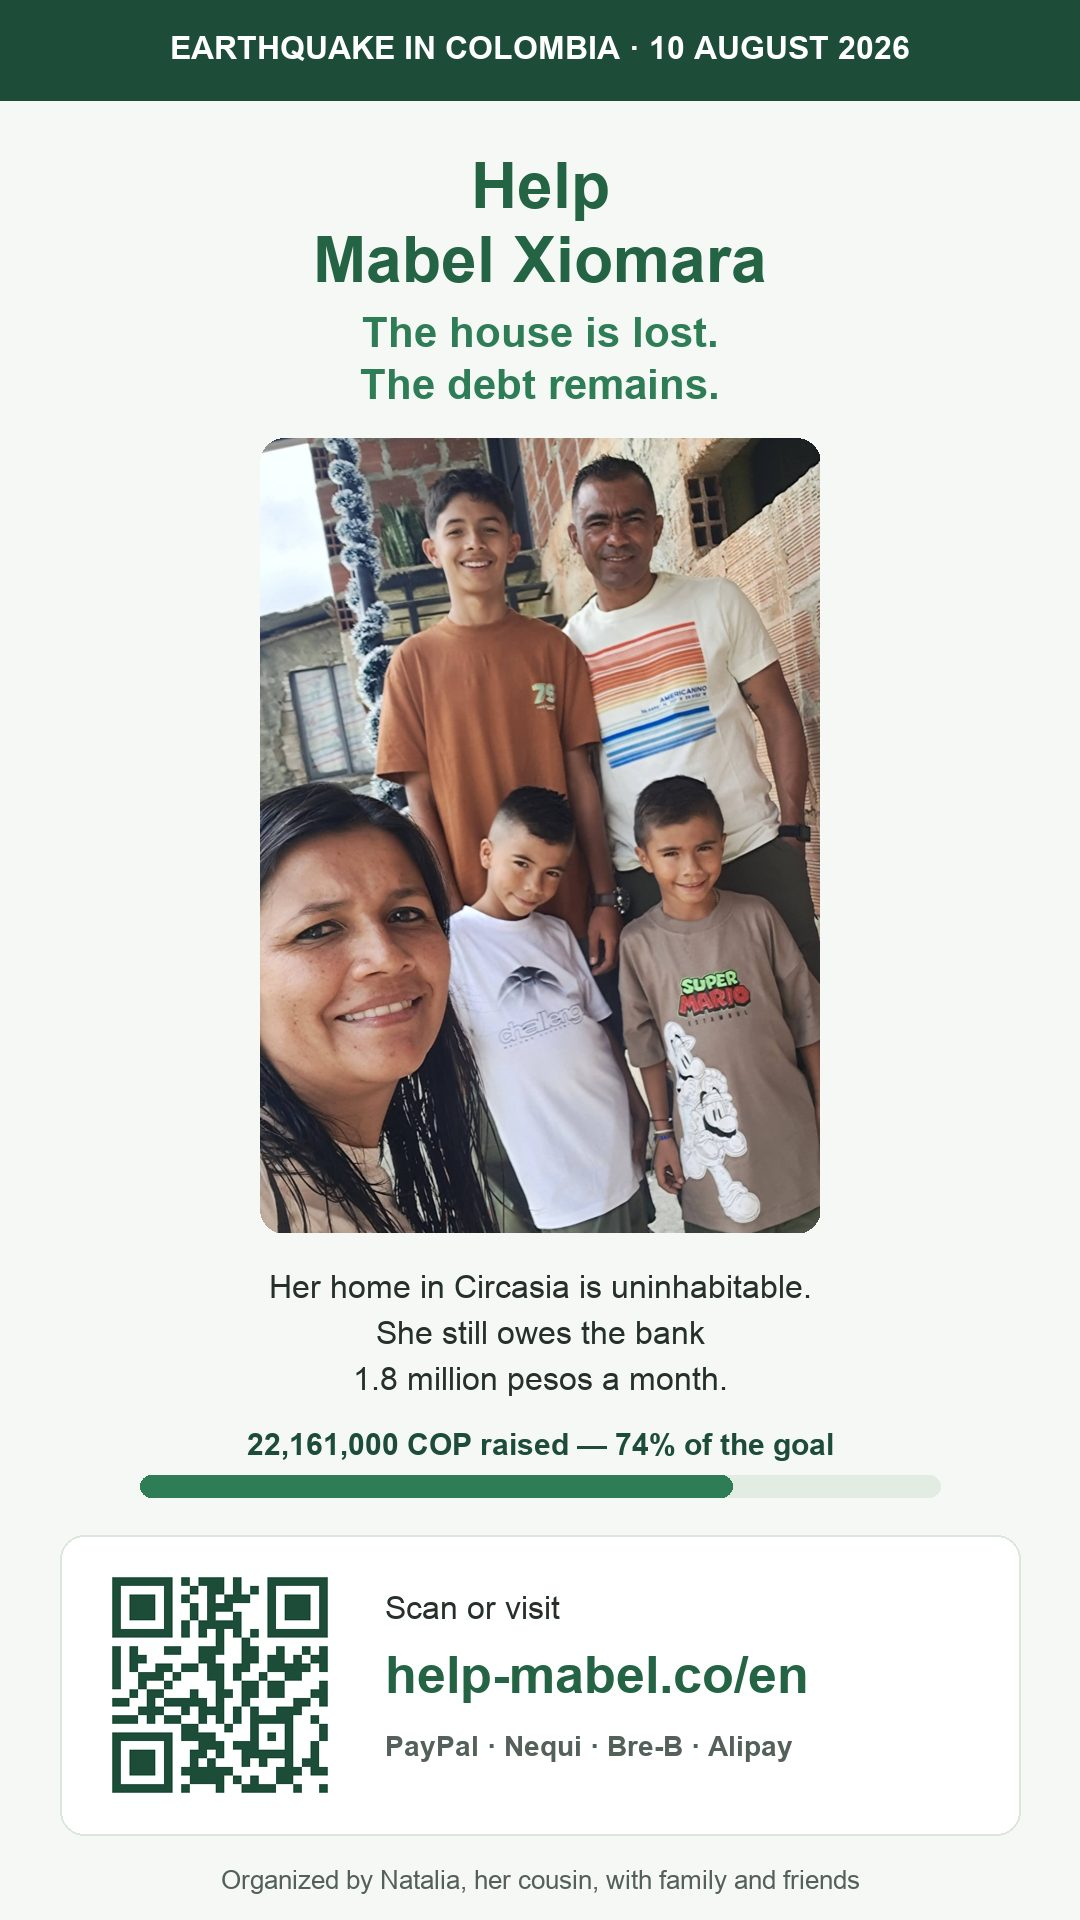
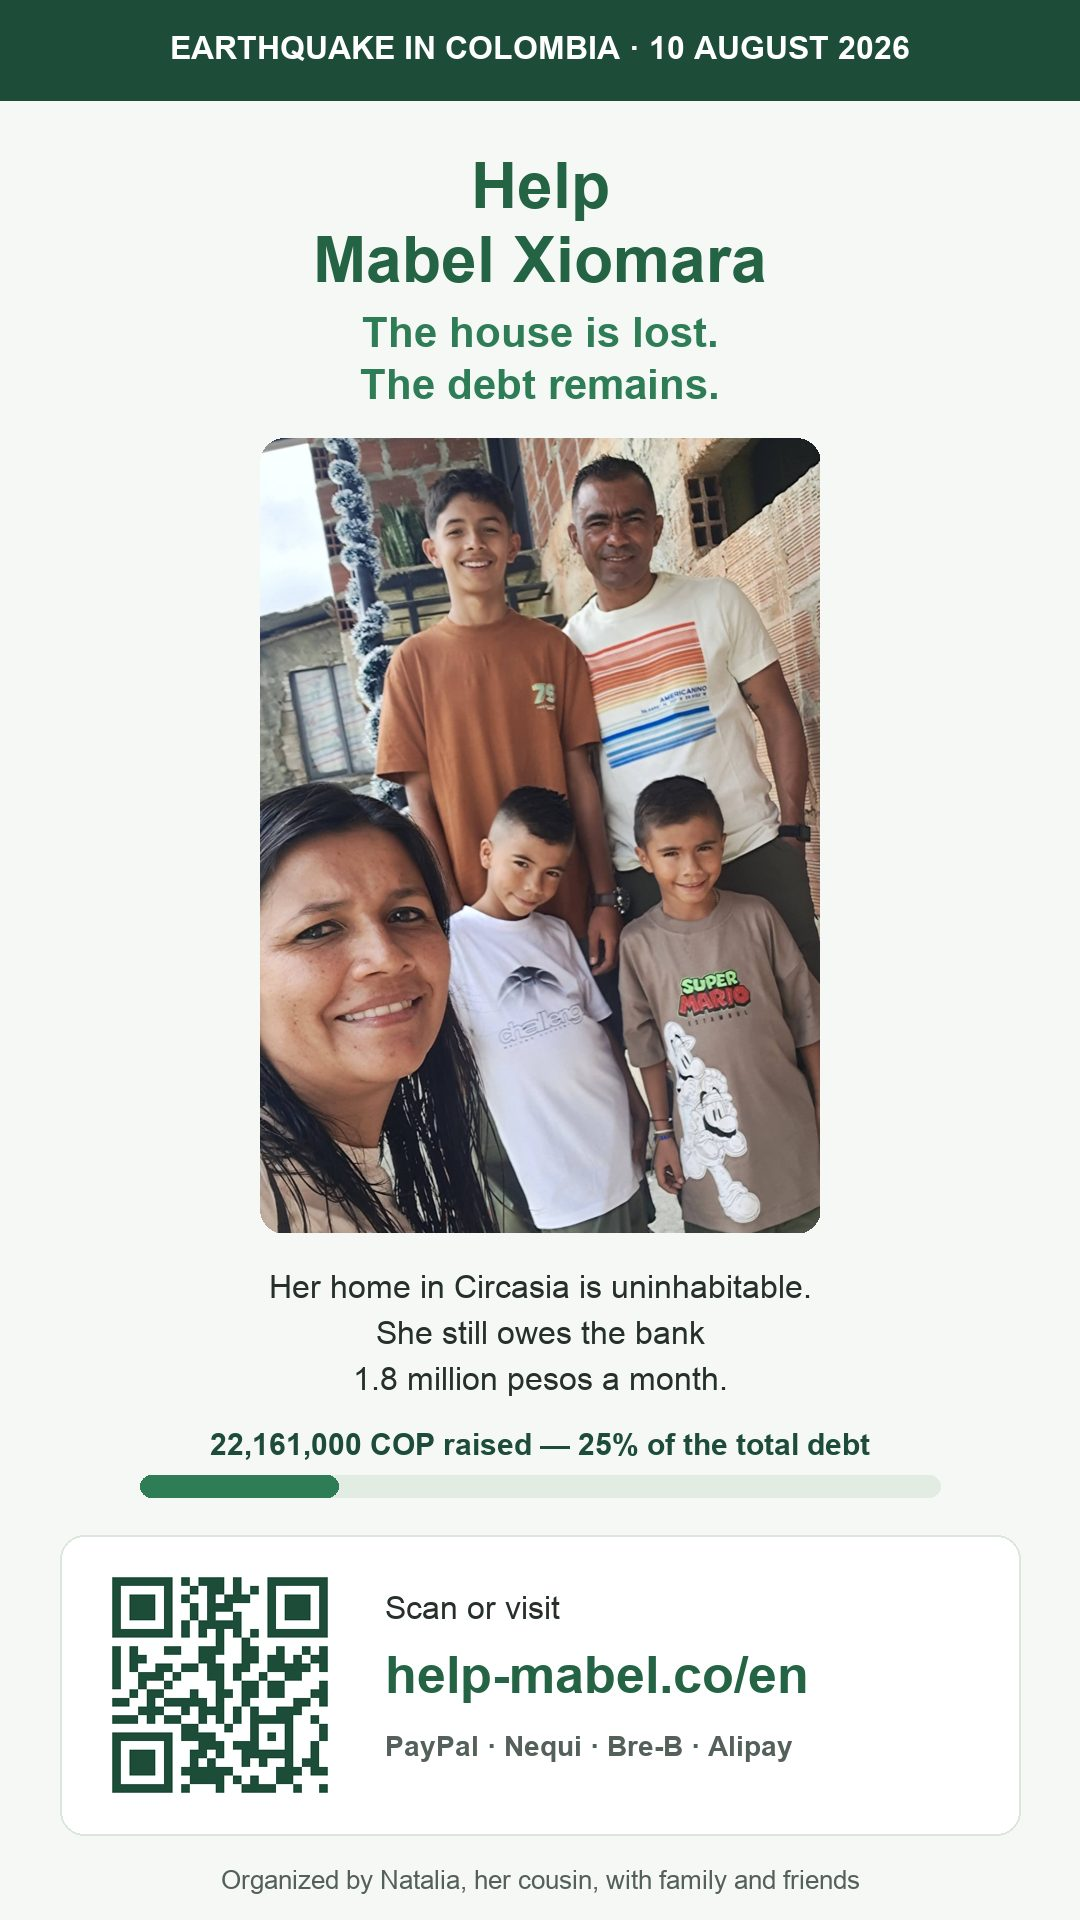
Reencuadre a deuda total: meta $89,4M, barra 24,8%, cuotas cubiertas 12 de 49

Changed region(s): [[0.2139, 0.75, 0.7944, 0.7812]]

diff --git a/de/index.html b/de/index.html
@@ -38,7 +38,7 @@
   .lede strong{color:var(--ink)}
   .progress-card{background:var(--card);border:1px solid var(--line);border-radius:14px;padding:18px;margin:18px 0}
   .bar{background:#e2ece2;border-radius:99px;height:14px;overflow:hidden;margin:10px 0 6px}
-  .fill{background:linear-gradient(90deg,var(--green-deep),#3f9668);height:100%;width:74%;border-radius:99px}
+  .fill{background:linear-gradient(90deg,var(--green-deep),#3f9668);height:100%;width:24.8%;border-radius:99px}
   .raised{font-size:22px;font-weight:700;color:var(--green-deep)}
   .goal-note{font-size:14px;color:var(--ink-soft)}
   .btn{display:block;text-align:center;background:var(--green);color:#fff;text-decoration:none;
@@ -107,10 +107,10 @@
 </header>
 
 <div class="progress-card">
-  <div class="raised"><span id="raised-num">22.161.000 COP</span> gesammelt <span id="raised-pct" style="font-size:16px;color:var(--ink-soft);font-weight:600">· 74 % des neuen Ziels</span></div>
+  <div class="raised"><span id="raised-num">22.161.000 COP</span> gesammelt <span id="raised-pct" style="font-size:16px;color:var(--ink-soft);font-weight:600">· 24,8 % der Gesamtschuld</span></div>
   <div class="bar"><div class="fill" id="bar-fill"></div></div>
-  <div class="goal-note"><strong>Ziel 2: <span id="first-goal">30.000.000 COP</span></strong> = ein Jahr an Raten (≈ 8.300 €) · die Gesamtschuld beträgt 89,4 Mio. — jeder Beitrag zählt weiter</div>
-  <div class="goal-note" id="remaining-line" style="margin-top:6px;color:var(--green-dark);font-weight:700">Noch 7.839.000 COP bis das Jahr an Raten gedeckt ist</div>
+  <div class="goal-note"><strong>Ziel: <span id="first-goal">89.400.000 COP</span></strong> — die gesamte Schuld (≈ 24.600 €)</div>
+  <div class="goal-note" id="remaining-line" style="margin-top:6px;color:var(--green-dark);font-weight:700">Bereits gedeckte Monatsraten: 12 von 49 ✓</div>
   <div class="goal-note" id="due-line" style="margin-top:6px;color:var(--green-dark);font-weight:700">Die nächste Rate über 1.824.000 COP (≈ 500 €) ist am 15. August fällig.</div>
 </div>
 
@@ -277,10 +277,10 @@ weiterleitet und die Belege veröffentlicht. Jeder Beitrag zählt — gemeinsam 
   <p style="margin:6px 0 0">In weniger als 24 Stunden haben wir das erste Ziel von 15 Millionen COP
   erreicht — und übertroffen: Wir stehen bei <strong>22.161.000 COP (≈ 6.100 €)</strong>, dank Spenden
   aus Kolumbien (Nequi: 11,5 Mio.), Europa und Australien (PayPal: 2.416 € + Überweisungen: 250 €) und
-  China (WeChat und Alipay: ¥2.100). Deshalb erhöhen wir das Ziel: <strong>30 Millionen COP — ein Jahr
-  an Kreditraten</strong>. Von Herzen danke an alle, die in fünf Ländern gespendet und geteilt haben.
-  Aber die Gesamtschuld beträgt <strong>89,4 Millionen COP</strong> — das Erreichte deckt erst gut ein
-  Viertel. Jede Spende und jedes Teilen macht weiter den Unterschied. 💚</p>
+  China (WeChat und Alipay: ¥2.100). Von Herzen danke an alle, die in fünf Ländern gespendet und
+  geteilt haben. Jetzt gehen wir das ganze Ziel an: <strong>Mabel Xiomara von der gesamten Schuld zu
+  befreien (89,4 Millionen COP)</strong> — das Erreichte deckt erst gut ein Viertel. Jede Spende und
+  jedes Teilen macht weiter den Unterschied. 💚</p>
 </div>
 <div class="update">
   <div class="date">13. August 2026 — 34 %!</div>
@@ -315,7 +315,7 @@ einen Chat oder deine Moments（朋友圈）ein und sende sie.</p>
 
 <div class="sticky"><a class="btn" href="#spenden">💚 Jetzt spenden</a></div>
 
-<script src="../data.js?v=7"></script>
+<script src="../data.js?v=8"></script>
 <script>
 (function(){
   var c = window.CAMPAIGN; if (!c) return;
@@ -323,12 +323,12 @@ einen Chat oder deine Moments（朋友圈）ein und sende sie.</p>
   var f = function(n){ return n.toLocaleString("de-DE") + " COP"; };
   var eur = (c.copPerEur > 0) ? Math.round(c.raised / c.copPerEur / 10) * 10 : 0;
   document.getElementById("raised-num").textContent = f(c.raised) + (eur > 0 ? " (≈ " + eur.toLocaleString("de-DE") + " €)" : "");
-  document.getElementById("raised-pct").textContent = "· " + pct.toLocaleString("de-DE") + " % des neuen Ziels";
+  document.getElementById("raised-pct").textContent = "· " + pct.toLocaleString("de-DE") + " % der Gesamtschuld";
   document.getElementById("bar-fill").style.width = Math.min(pct, 100) + "%";
   document.getElementById("first-goal").textContent = f(c.firstGoal);
-  var rem = c.firstGoal - c.raised, rl = document.getElementById("remaining-line");
-  if (rem > 0) rl.textContent = "Noch " + f(rem) + " bis das Jahr an Raten gedeckt ist";
-  else rl.style.display = "none";
+  var rl = document.getElementById("remaining-line");
+  if (c.monthly > 0) rl.textContent = "Bereits gedeckte Monatsraten: " + Math.floor(c.raised / c.monthly) +
+    " von " + Math.round(c.firstGoal / c.monthly) + " ✓";
   if (c.nextPaymentDue) {
     var due = new Date(c.nextPaymentDue + "T23:59:59-05:00");
     var days = Math.ceil((due - new Date()) / 86400000);

diff --git a/en/index.html b/en/index.html
@@ -38,7 +38,7 @@
   .lede strong{color:var(--ink)}
   .progress-card{background:var(--card);border:1px solid var(--line);border-radius:14px;padding:18px;margin:18px 0}
   .bar{background:#e2ece2;border-radius:99px;height:14px;overflow:hidden;margin:10px 0 6px}
-  .fill{background:linear-gradient(90deg,var(--green-deep),#3f9668);height:100%;width:74%;border-radius:99px}
+  .fill{background:linear-gradient(90deg,var(--green-deep),#3f9668);height:100%;width:24.8%;border-radius:99px}
   .raised{font-size:22px;font-weight:700;color:var(--green-deep)}
   .goal-note{font-size:14px;color:var(--ink-soft)}
   .btn{display:block;text-align:center;background:var(--green);color:#fff;text-decoration:none;
@@ -107,10 +107,10 @@
 </header>
 
 <div class="progress-card">
-  <div class="raised"><span id="raised-num">22,161,000 COP</span> raised <span id="raised-pct" style="font-size:16px;color:var(--ink-soft);font-weight:600">· 74% of the new goal</span></div>
+  <div class="raised"><span id="raised-num">22,161,000 COP</span> raised <span id="raised-pct" style="font-size:16px;color:var(--ink-soft);font-weight:600">· 24.8% of the total debt</span></div>
   <div class="bar"><div class="fill" id="bar-fill"></div></div>
-  <div class="goal-note"><strong>Goal 2: <span id="first-goal">30,000,000 COP</span></strong> = one year of payments (≈ €8,300) · the full debt is 89.4 million — every donation still counts</div>
-  <div class="goal-note" id="remaining-line" style="margin-top:6px;color:var(--green-dark);font-weight:700">7,839,000 COP still needed to complete the year of payments</div>
+  <div class="goal-note"><strong>Goal: <span id="first-goal">89,400,000 COP</span></strong> — the full loan debt (≈ €24,600)</div>
+  <div class="goal-note" id="remaining-line" style="margin-top:6px;color:var(--green-dark);font-weight:700">Monthly payments covered so far: 12 of 49 ✓</div>
   <div class="goal-note" id="due-line" style="margin-top:6px;color:var(--green-dark);font-weight:700">The next loan payment of 1,824,000 COP (≈ €500) is due 15 August.</div>
 </div>
 
@@ -255,10 +255,10 @@ Mabel Xiomara and posts the receipts. Every contribution counts — together we 
   <p style="margin:6px 0 0">In under 24 hours we reached — and passed — the first goal of 15 million COP:
   we're now at <strong>22,161,000 COP (≈ €6,100)</strong>, thanks to donations from Colombia (Nequi:
   11.5M), Europe and Australia (PayPal: €2,416 + bank transfers: €250) and China (WeChat and Alipay:
-  ¥2,100). So we're raising the goal: <strong>30 million COP — one year of loan payments</strong>.
-  Heartfelt thanks to everyone who has donated and shared across five countries. But the full debt is
-  <strong>89.4 million COP</strong> — what we've raised covers barely a quarter. Every donation and
-  every share still makes the difference. 💚</p>
+  ¥2,100). Heartfelt thanks to everyone who has donated and shared across five countries. Now we're
+  going for the full goal: <strong>freeing Mabel Xiomara from the entire debt (89.4 million COP)</strong>
+  — what we've raised covers barely a quarter. Every donation and every share still makes the
+  difference. 💚</p>
 </div>
 <div class="update">
   <div class="date">August 13, 2026 — 34%!</div>
@@ -293,7 +293,7 @@ chat or your Moments（朋友圈）and send.</p>
 
 <div class="sticky"><a class="btn" href="#donate">💚 Donate now</a></div>
 
-<script src="../data.js?v=7"></script>
+<script src="../data.js?v=8"></script>
 <script>
 (function(){
   var c = window.CAMPAIGN; if (!c) return;
@@ -301,12 +301,12 @@ chat or your Moments（朋友圈）and send.</p>
   var f = function(n){ return n.toLocaleString("en-GB") + " COP"; };
   var eur = (c.copPerEur > 0) ? Math.round(c.raised / c.copPerEur / 10) * 10 : 0;
   document.getElementById("raised-num").textContent = f(c.raised) + (eur > 0 ? " (≈ €" + eur.toLocaleString("en-GB") + ")" : "");
-  document.getElementById("raised-pct").textContent = "· " + pct.toLocaleString("en-GB") + "% of the new goal";
+  document.getElementById("raised-pct").textContent = "· " + pct.toLocaleString("en-GB") + "% of the total debt";
   document.getElementById("bar-fill").style.width = Math.min(pct, 100) + "%";
   document.getElementById("first-goal").textContent = f(c.firstGoal);
-  var rem = c.firstGoal - c.raised, rl = document.getElementById("remaining-line");
-  if (rem > 0) rl.textContent = f(rem) + " still needed to complete the year of payments";
-  else rl.style.display = "none";
+  var rl = document.getElementById("remaining-line");
+  if (c.monthly > 0) rl.textContent = "Monthly payments covered so far: " + Math.floor(c.raised / c.monthly) +
+    " of " + Math.round(c.firstGoal / c.monthly) + " ✓";
   if (c.nextPaymentDue) {
     var due = new Date(c.nextPaymentDue + "T23:59:59-05:00");
     var days = Math.ceil((due - new Date()) / 86400000);

diff --git a/index.html b/index.html
@@ -42,7 +42,7 @@
 
   .progress-card{background:var(--card);border:1px solid var(--line);border-radius:14px;padding:18px;margin:18px 0}
   .bar{background:#e2ece2;border-radius:99px;height:14px;overflow:hidden;margin:10px 0 6px}
-  .fill{background:linear-gradient(90deg,var(--green-deep),#3f9668);height:100%;width:74%;border-radius:99px}
+  .fill{background:linear-gradient(90deg,var(--green-deep),#3f9668);height:100%;width:24.8%;border-radius:99px}
   .raised{font-size:22px;font-weight:700;color:var(--green-deep)}
   .goal-note{font-size:14px;color:var(--ink-soft)}
 
@@ -122,10 +122,10 @@
 </header>
 
 <div class="progress-card">
-  <div class="raised"><span id="raised-num">$22.161.000</span> COP recaudados <span id="raised-pct" style="font-size:16px;color:var(--ink-soft);font-weight:600">· 74% de la nueva meta</span></div>
+  <div class="raised"><span id="raised-num">$22.161.000</span> COP recaudados <span id="raised-pct" style="font-size:16px;color:var(--ink-soft);font-weight:600">· 24,8% de la deuda total</span></div>
   <div class="bar"><div class="fill" id="bar-fill"></div></div>
-  <div class="goal-note"><strong>Meta 2: <span id="first-goal">$30.000.000</span></strong> = un año de cuotas · la deuda completa es de $89,4 millones — cada aporte sigue contando</div>
-  <div class="goal-note" id="remaining-line" style="margin-top:6px;color:var(--green-dark);font-weight:700">Faltan $7.839.000 para completar el año de cuotas</div>
+  <div class="goal-note"><strong>Meta: <span id="first-goal">$89.400.000</span></strong> — la deuda completa del crédito</div>
+  <div class="goal-note" id="remaining-line" style="margin-top:6px;color:var(--green-dark);font-weight:700">Cuotas mensuales ya cubiertas: 12 de 49 ✓</div>
   <div class="goal-note" id="due-line" style="margin-top:6px;color:var(--green-dark);font-weight:700">La próxima cuota de $1.824.000 vence el 15 de agosto.</div>
 </div>
 
@@ -272,10 +272,10 @@ Cualquier aporte suma; entre todos marcamos la diferencia.</p>
   <p style="margin:6px 0 0">En menos de 24 horas alcanzamos — y superamos — la primera meta de $15
   millones: ya vamos en <strong>$22.161.000</strong>, gracias a donaciones desde Colombia (Nequi: $11,5
   millones), Europa y Australia (PayPal: €2.416 + transferencias: €250) y China (WeChat y Alipay:
-  ¥2.100). Por eso ampliamos la meta: <strong>$30 millones — un año de cuotas del crédito</strong>.
-  Gracias de corazón a cada persona que ha donado y compartido en los cinco países. Pero la deuda
-  completa es de <strong>$89,4 millones</strong> — lo logrado cubre apenas una cuarta parte. Cada
-  aporte y cada compartida siguen haciendo la diferencia. 💚</p>
+  ¥2.100). Gracias de corazón a cada persona que ha donado y compartido en los cinco países. Ahora
+  vamos por la meta completa: <strong>liberar a Mabel Xiomara de toda la deuda ($89,4 millones)</strong>
+  — lo logrado cubre apenas una cuarta parte. Cada aporte y cada compartida siguen haciendo la
+  diferencia. 💚</p>
 </div>
 <div class="update">
   <div class="date">13 de agosto de 2026 — ¡34%!</div>
@@ -310,19 +310,19 @@ un chat o en Momentos（朋友圈）y envíalo.</p>
 
 <div class="sticky"><a class="btn" href="#donar">💚 Donar ahora</a></div>
 
-<script src="data.js?v=7"></script>
+<script src="data.js?v=8"></script>
 <script>
 (function(){
   var c = window.CAMPAIGN; if (!c) return;
   var pct = Math.round(c.raised / c.firstGoal * 1000) / 10;
   var f = function(n){ return "$" + n.toLocaleString("es-CO"); };
   document.getElementById("raised-num").textContent = f(c.raised);
-  document.getElementById("raised-pct").textContent = "· " + pct.toLocaleString("es-CO") + "% de la nueva meta";
+  document.getElementById("raised-pct").textContent = "· " + pct.toLocaleString("es-CO") + "% de la deuda total";
   document.getElementById("bar-fill").style.width = Math.min(pct, 100) + "%";
   document.getElementById("first-goal").textContent = f(c.firstGoal);
-  var rem = c.firstGoal - c.raised, rl = document.getElementById("remaining-line");
-  if (rem > 0) rl.textContent = "Faltan " + f(rem) + " para completar el año de cuotas";
-  else rl.style.display = "none";
+  var rl = document.getElementById("remaining-line");
+  if (c.monthly > 0) rl.textContent = "Cuotas mensuales ya cubiertas: " + Math.floor(c.raised / c.monthly) +
+    " de " + Math.round(c.firstGoal / c.monthly) + " ✓";
   if (c.nextPaymentDue) {
     var due = new Date(c.nextPaymentDue + "T23:59:59-05:00");
     var days = Math.ceil((due - new Date()) / 86400000);

diff --git a/wechat/index.html b/wechat/index.html
@@ -28,7 +28,7 @@
   .hero{width:100%;max-width:420px;margin:0 auto 14px}
   .progress-card{background:var(--card);border:1px solid var(--line);border-radius:14px;padding:14px;margin:14px 0}
   .bar{background:#e2ece2;border-radius:99px;height:12px;overflow:hidden;margin:8px 0 4px}
-  .fill{background:linear-gradient(90deg,var(--green-deep),#3f9668);height:100%;width:74%;border-radius:99px}
+  .fill{background:linear-gradient(90deg,var(--green-deep),#3f9668);height:100%;width:24.8%;border-radius:99px}
   .raised{font-size:18px;font-weight:700;color:var(--green-deep)}
   .goal-note{font-size:13px;color:var(--ink-soft)}
   .zh{background:var(--card);border-left:4px solid var(--green);border-radius:0 12px 12px 0;padding:12px 14px;margin:14px 0;font-size:16px}
@@ -57,7 +57,7 @@
   <div class="progress-card">
     <div class="raised"><span id="raised-num">22,161,000 COP</span> raised</div>
     <div class="bar"><div class="fill" id="bar-fill"></div></div>
-    <div class="goal-note">Goal 2: <span id="first-goal">30,000,000 COP</span> — the full debt is 89.4 million; every donation still counts</div>
+    <div class="goal-note">Goal: <span id="first-goal">89,400,000 COP</span> — the full loan debt · every donation counts</div>
   </div>
 
   <p>Alipay donations are received by <strong>Natalia</strong>, Mabel Xiomara's cousin,
@@ -82,7 +82,7 @@
   <p class="note">Questions? Write to us: <a href="#" onclick="var m=['nataliavallejomoreno','gmail.com'].join('@');this.textContent=m;this.href='mailto:'+m;this.onclick=null;return false" style="color:var(--green-deep)">show contact email</a></p>
 </main>
 
-<script src="../data.js?v=7"></script>
+<script src="../data.js?v=8"></script>
 <script>
 (function(){
   var c = window.CAMPAIGN; if (!c) return;

diff --git a/data.js b/data.js
@@ -2,11 +2,11 @@
 // OJO: tras CUALQUIER cambio en este archivo, subir el número de versión (?v=N)
 // en las etiquetas <script src="data.js?v=N"> de las 4 páginas — mientras el
 // Browser Cache TTL de Cloudflare siga en 4h, es la única forma de que los
-// navegadores con caché vieja carguen el archivo nuevo. Versión actual: v=3.
+// navegadores con caché vieja carguen el archivo nuevo. Versión actual: v=8.
 window.CAMPAIGN = {
   raised: 22161000,             // COP recaudados (Nequi $11,5M + PayPal €2.416 + transf. €250 + WeChat ¥900 + Alipay ¥1.200)
-  firstGoal: 30000000,          // meta actual COP (la 1.ª meta de 15M se superó el 14-ago)
-  finalGoal: 89400000,          // deuda total exacta COP
+  firstGoal: 89400000,          // meta = la deuda completa (reencuadre 14-ago; hitos de 15M y 30M superados)
+  monthly: 1824000,             // cuota mensual COP (para la línea "cuotas cubiertas")
   copPerEur: 3630,              // tasa COP por EUR (verificada 13 ago 2026; revisar mensualmente)
   nextPaymentDue: "2026-08-15"  // fecha de la próxima cuota (YYYY-MM-DD)
 };
